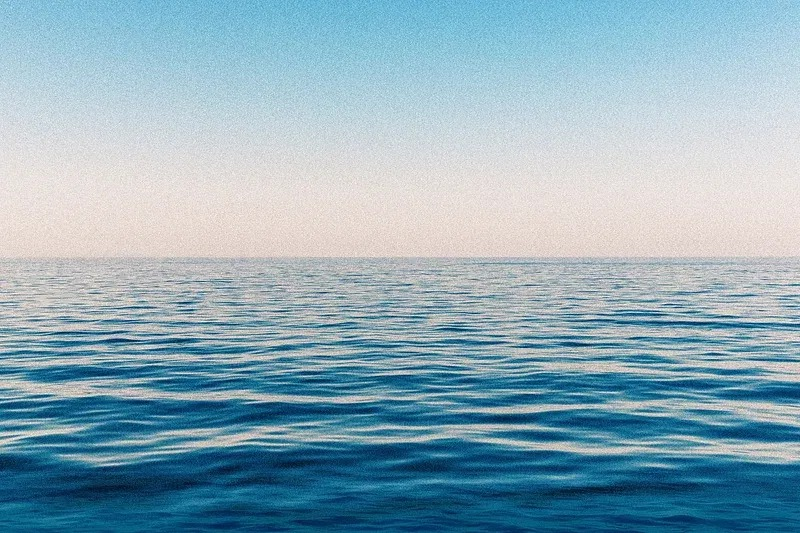
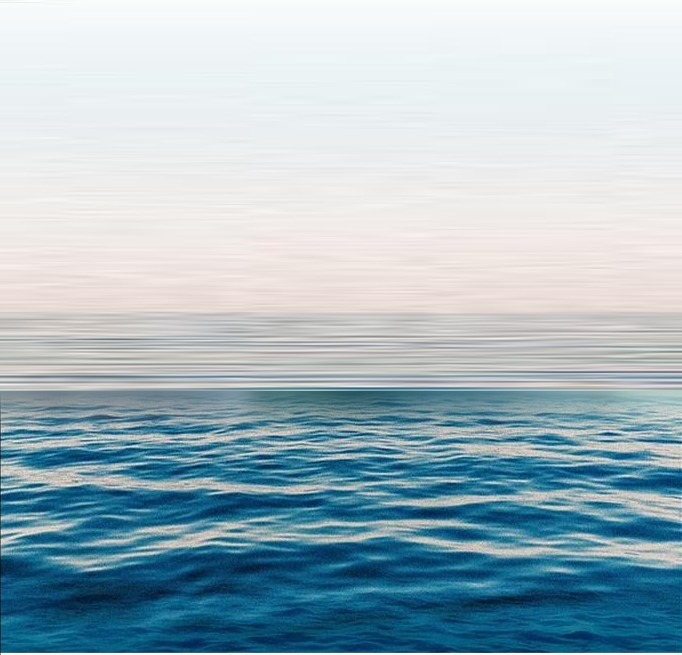
Match login/profile hero photos to the approved original mockups
Both pages had drifted from the agreed design:

- login.html: was a top-banner photo (46% height) over a plain white
  card with the form -- the original design is full-bleed photo behind
  the form controls for the whole screen. Rebuilt as such: the original
  login mockup's aspect ratio (0.462) matches the phone canvas almost
  exactly, so it now covers the entire screen with no crop/stretch.
  The name/code fields and Continue button are real opaque white/gold
  pills positioned over it. The mockup's baked-in fake single field +
  button + "Add to Home Screen" hint (needed since we now have two
  real fields, not one) were painted out with synthesized sea texture
  so nothing ghosts through from underneath.

- profile.html: was using a photo pulled from the wrong source (a
  general reference photo out of the user's Claude Project, vivid
  blue sky) instead of the actual approved profile mockup's photo
  (paler, pinker sky), and the hero was a fixed 260px regardless of
  screen size instead of matching the original's ~44% proportion.
  Fixed both: hero height is now 44%, and the background is a crop of
  the original profile mockup's photo with the baked-in name/avatar/
  badge painted out (replaced with synthesized sky/sea) so the real
  HTML avatar/name/badge can sit on top cleanly at any screen size.

diff --git a/login.html b/login.html
@@ -6,81 +6,71 @@
 <title>Welcome — Mallorca Wedding</title>
 <link rel="stylesheet" href="css/design-system.css">
 <style>
-  .login-hero {
-    position: relative;
-    flex: 0 0 auto;
-    height: 46%;
-    overflow: hidden;
-  }
-  .login-hero img {
+  /* Full-bleed photo: its aspect ratio (0.462) already matches the phone
+     canvas (390:844), so it covers the whole screen with no crop/stretch. */
+  .login-bg {
+    position: absolute; inset: 0;
     width: 100%; height: 100%;
     object-fit: cover;
-    display: block;
+    z-index: 0;
   }
-  .login-hero::after {
-    content: "";
+
+  .sr-only {
+    position: absolute; width: 1px; height: 1px;
+    padding: 0; margin: -1px; overflow: hidden;
+    clip: rect(0,0,0,0); white-space: nowrap; border: 0;
+  }
+
+  .login-form {
     position: absolute; inset: 0;
-    background: linear-gradient(180deg, rgba(0,0,0,0) 55%, var(--bg) 100%);
-  }
-  .login-body {
-    flex: 1;
-    display: flex;
-    flex-direction: column;
-    padding: 8px 28px 28px;
-  }
-  .login-title {
-    font-family: var(--font-title);
-    font-size: 30px;
-    text-align: center;
-    margin-bottom: 6px;
-  }
-  .login-sub {
-    text-align: center;
-    color: var(--muted);
-    font-size: 14px;
-    margin-bottom: 26px;
+    z-index: 2;
   }
   .login-field {
-    margin-bottom: 14px;
-  }
-  .login-field label {
-    display: block;
-    font-size: 13px;
-    color: var(--muted-2);
-    margin-bottom: 6px;
+    position: absolute;
+    left: 8.15%; width: 83.7%;
+    height: 6.9%;
   }
   .login-field input {
-    width: 100%;
-    border: 1px solid var(--divider-2);
+    width: 100%; height: 100%;
+    border: none;
     border-radius: 14px;
-    padding: 16px 18px;
+    padding: 0 18px;
     font-size: 16px;
     font-family: var(--font-ui);
     color: var(--ink);
-    background: var(--bg-alt);
+    background: rgba(255,255,255,0.96);
+    box-shadow: 0 2px 10px rgba(0,0,0,0.12);
   }
   .login-field input:focus { outline: 2px solid var(--gold-text); }
+  #field-name { top: 47.4%; }
+  #field-code { top: 56.1%; }
+
   .login-submit {
-    margin-top: 8px;
-    width: 100%;
+    position: absolute;
+    left: 8.15%; width: 83.7%;
+    top: 64.7%; height: 6.9%;
     border: none;
     border-radius: 14px;
-    padding: 17px;
     background: var(--gold);
     color: var(--ink);
     font-size: 16px;
     font-weight: 700;
     font-family: var(--font-ui);
     cursor: pointer;
+    box-shadow: 0 2px 10px rgba(0,0,0,0.15);
   }
   .login-submit:disabled { opacity: .6; cursor: default; }
+
   .login-error {
-    color: var(--danger);
+    position: absolute;
+    left: 8.15%; width: 83.7%;
+    top: 73.2%;
+    color: #fff;
+    text-shadow: 0 1px 4px rgba(0,0,0,0.6);
     font-size: 14px;
     text-align: center;
-    margin-top: 12px;
-    min-height: 18px;
   }
+
   .lang-switch {
     position: absolute;
     top: calc(12px + env(safe-area-inset-top));
@@ -111,29 +101,23 @@
   <div class="phone-frame">
   <div class="phone-ratio-box">
   <main class="app">
+    <img class="login-bg" src="assets/img/login-full.jpg" alt="Mallorca Wedding — Pau &amp; Sofia, 10.07.2026, Mallorca, Spain">
     <div class="notch"></div>
     <div class="lang-switch" id="lang-switch"></div>
-    <div class="screen">
-      <div class="login-hero">
-        <img src="assets/img/login-hero.png" alt="Mallorca Wedding — Pau &amp; Sofia, 10.07.2026, Mallorca, Spain">
+
+    <form class="login-form" id="login-form">
+      <div class="login-field" id="field-name">
+        <label class="sr-only" for="name" data-i18n="login.nameLabel">Your name</label>
+        <input id="name" name="name" type="text" autocomplete="name" placeholder="Your name" required>
       </div>
-      <form class="login-body" id="login-form">
-        <h1 class="login-title">Mallorca Wedding</h1>
-        <p class="login-sub" data-i18n="login.subtitle">Enter your name and the access code from your invitation</p>
+      <div class="login-field" id="field-code">
+        <label class="sr-only" for="code" data-i18n="login.codeLabel">Access code</label>
+        <input id="code" name="code" type="text" autocomplete="off" placeholder="Access code" required>
+      </div>
 
-        <div class="login-field">
-          <label for="name" data-i18n="login.nameLabel">Your name</label>
-          <input id="name" name="name" type="text" autocomplete="name" placeholder="Sofia" required>
-        </div>
-        <div class="login-field">
-          <label for="code" data-i18n="login.codeLabel">Access code</label>
-          <input id="code" name="code" type="text" autocomplete="off" placeholder="e.g. PAUSOFIA26" required>
-        </div>
-
-        <button class="login-submit" type="submit" id="login-submit" data-i18n="login.continue">Continue</button>
-        <p class="login-error" id="login-error"></p>
-      </form>
-    </div>
+      <button class="login-submit" type="submit" id="login-submit" data-i18n="login.continue">Continue</button>
+      <p class="login-error" id="login-error"></p>
+    </form>
   </main>
   </div>
   </div>
@@ -154,10 +138,17 @@
         btn.addEventListener("click", () => {
           setLang(btn.dataset.code);
           renderLangSwitch();
+          applyPlaceholders();
         });
       });
     }
     renderLangSwitch();
+
+    function applyPlaceholders() {
+      document.getElementById("name").placeholder = t("login.nameLabel");
+      document.getElementById("code").placeholder = t("login.codeLabel");
+    }
+    applyPlaceholders();
 
     const form = document.getElementById("login-form");
     const submitBtn = document.getElementById("login-submit");

diff --git a/profile.html b/profile.html
@@ -9,13 +9,14 @@
   .profile-hero {
     position: relative;
     flex: 0 0 auto;
-    height: 260px;
+    height: 44%;
     overflow: hidden;
   }
   .profile-hero img {
     position: absolute; inset: 0;
     width: 100%; height: 100%;
     object-fit: cover;
+    object-position: center top;
     display: block;
   }
   .profile-hero::after {
